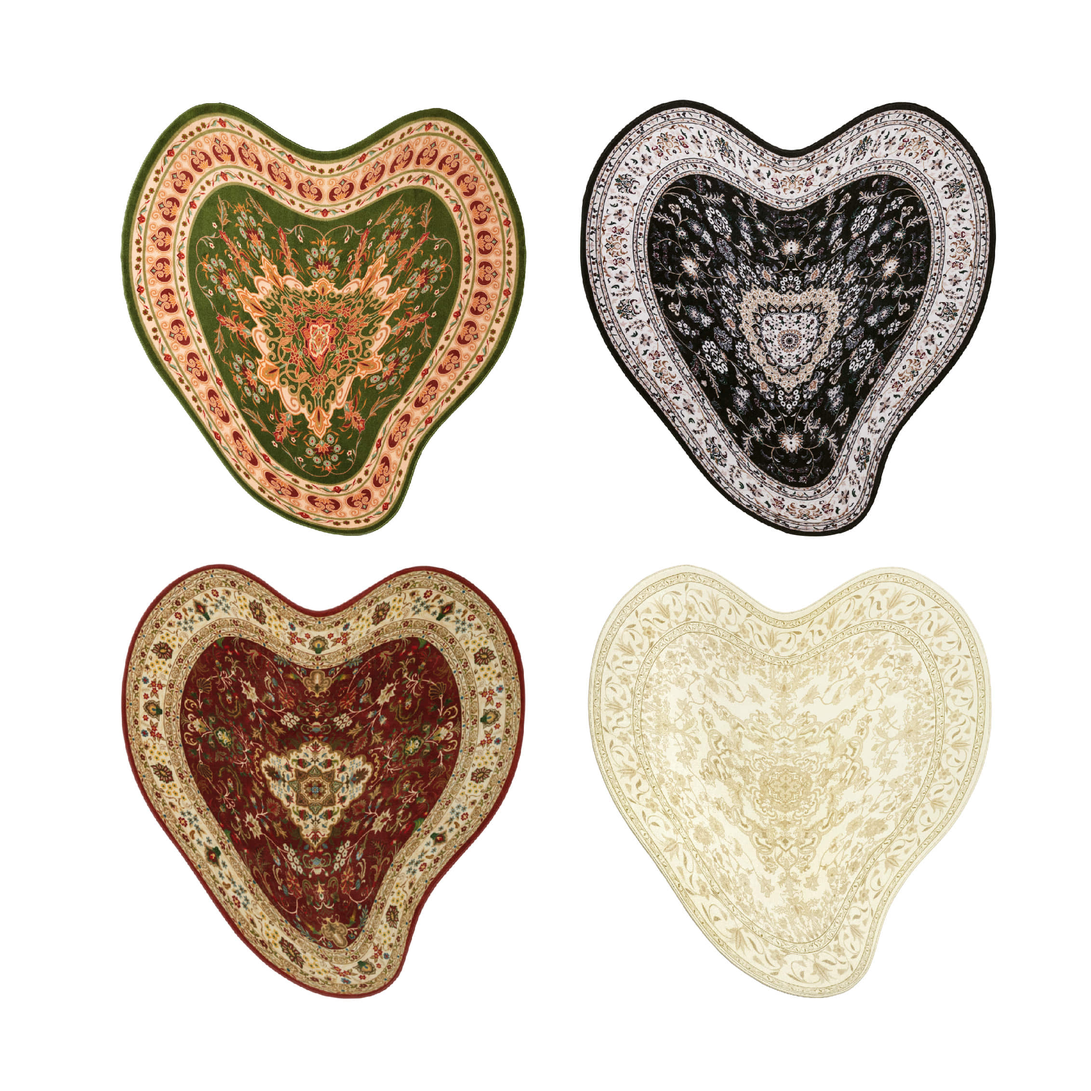
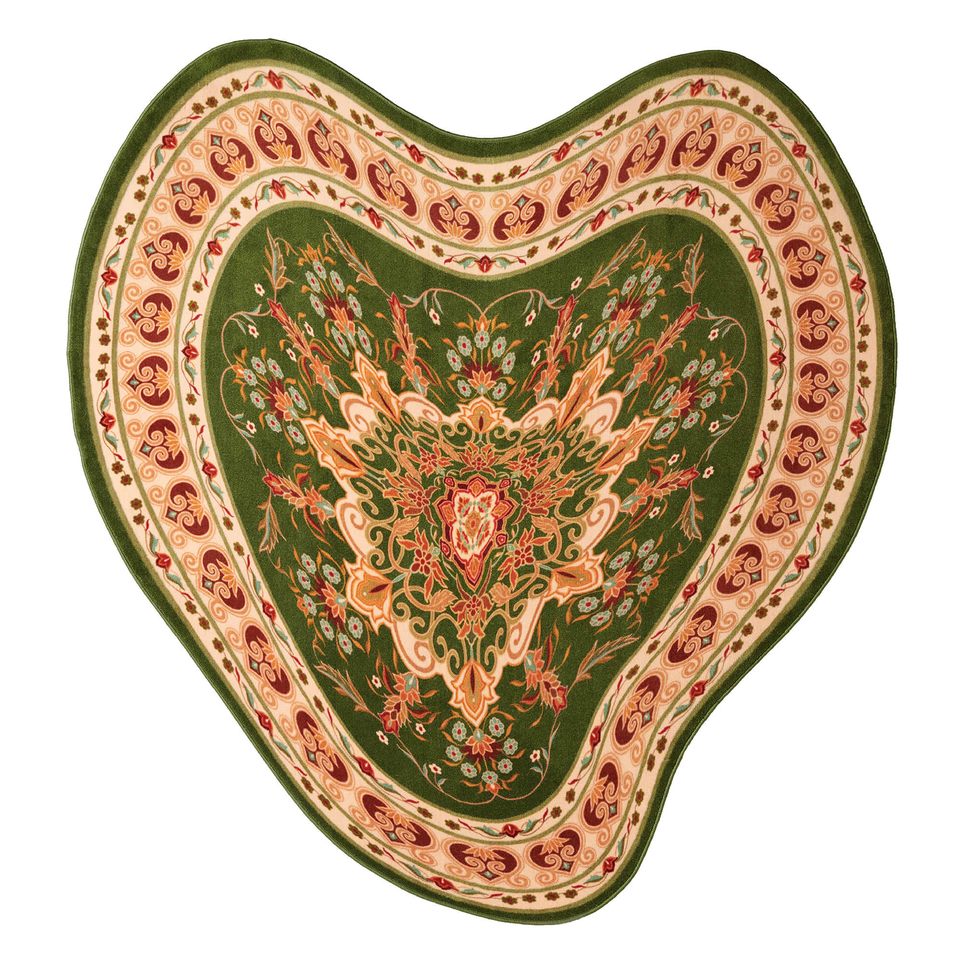
s

diff --git a/2차_팀프로젝트/03.구현소스(디자인&소스)/sub2.html b/2차_팀프로젝트/03.구현소스(디자인&소스)/sub2.html
@@ -1,0 +1,127 @@
+<!DOCTYPE html>
+<html lang="en">
+  <head>
+    <meta charset="UTF-8" />
+    <meta name="viewport" content="width=device-width, initial-scale=1.0" />
+    <title>Saytouche</title>
+    <!-- 파비콘 넣기 -->
+    <!-- <link rel="shortcut icon" href="./images/favicon.ico" /> -->
+    <!-- 폰트어썸 CDN CSS -->
+    <link
+      rel="stylesheet"
+      href="https://cdnjs.cloudflare.com/ajax/libs/font-awesome/6.2.0/css/all.min.css"
+    />
+    <!-- 메인 CSS -->
+    <link rel="stylesheet" href="./css/sub2.css" />
+
+    <!-- 미디어쿼리는 반드시 일반css아래 위치함! -->
+    <link rel="stylesheet" href="./css/media_main.css" />
+    <!-- Swiper CSS -->
+    <link
+      rel="stylesheet"
+      href="https://cdn.jsdelivr.net/npm/swiper@11/swiper-bundle.min.css"
+    />
+
+    <!-- Swiper JS -->
+    <script src="https://cdn.jsdelivr.net/npm/swiper@11/swiper-bundle.min.js"></script>
+
+    <!-- 제이쿼리 라이브러리 불러오기 
+     제이쿼리를 사용하는 JS파일 위에 불러와야한다! -->
+    <script src="./js/jquery-3.6.3.min.js"></script>
+
+    <!-- 외부JS 제이쿼리버전 - defer필수! -->
+    <script src="./js/main1_jquery.js" defer></script>
+
+    <!-- <script type="module" src="./js/common.js"></script> -->
+    <!-- 공통 JS :import 문법을 사용하려면
+     반드시 type="module"로 써야한다.-->
+    <script type="module" src="./js/common.js"></script>
+    <!-- 메인 JS -->
+    <script src="./js/sub.js" defer></script>
+  </head>
+  <body>
+    <header class="top">
+      <div id="top-area"></div>
+    </header>
+    <!-- //////////////////////////////////////////////// -->
+    <!--2. 메인영역 -->
+    <main id="main-area">
+      <div class="main-area">
+        <h2 class="temp-tit blind">메인영역</h2>
+
+        <!-- 2-1 배너 파트 -->
+        <section class="banner-part">
+          <h2 class="temp-tit blind">2-1. 배너영역</h2>
+          <!-- 배너 스와이퍼 -->
+          <div class="banner-swiper-container">
+            <div class="swiper bannerSwiper">
+              <div class="swiper-wrapper">
+                <!-- 슬라이드 1 -->
+                <div class="swiper-slide">
+                  <div class="banner-box">
+                    <img
+                      src="./images/rug1.jpg"
+                      alt="세이투세 러그 1"
+                      class="bg"
+                    />
+                  </div>
+                </div>
+                <!-- 슬라이드 2 -->
+                <div class="swiper-slide">
+                  <div class="banner-box">
+                    <img
+                      src="./images/rug2.jpg"
+                      alt="세이투세 러그 2"
+                      class="bg"
+                    />
+                  </div>
+                </div>
+                <!-- 슬라이드 3 -->
+                <div class="swiper-slide">
+                  <div class="banner-box">
+                    <img
+                      src="./images/rug3.jpg"
+                      alt="세이투세 러그 3"
+                      class="bg"
+                    />
+                  </div>
+                </div>
+                <!-- 슬라이드 4 -->
+                <div class="swiper-slide">
+                  <div class="banner-box">
+                    <img
+                      src="./images/rug4.jpg"
+                      alt="세이투세 러그 4"
+                      class="bg"
+                    />
+                  </div>
+                </div>
+                <!-- 슬라이드 5 -->
+                <div class="swiper-slide">
+                  <div class="banner-box">
+                    <img
+                      src="./images/rug5.jpg"
+                      alt="세이투세 러그 5"
+                      class="bg"
+                    />
+                  </div>
+                </div>
+              </div>
+
+              <!-- 이전/다음 버튼 -->
+              <!-- <div class="swiper-button-prev banner-prev"></div>
+            <div class="swiper-button-next banner-next"></div> -->
+
+              <!-- 페이지네이션 -->
+              <div class="swiper-pagination banner-pagination"></div>
+            </div>
+          </div>
+        </section>
+        <!-- 2-1 배너 파트 끝-->
+      </div>
+    </main>
+    <!-- //////////////////////////////////////////////// -->
+    <!-- 6. 하단영역 -->
+    <div id="bottom-area"></div>
+  </body>
+</html>

diff --git a/2차_팀프로젝트/03.구현소스(디자인&소스)/css/sub2.css b/2차_팀프로젝트/03.구현소스(디자인&소스)/css/sub2.css
@@ -1,0 +1,242 @@
+/* 외부 CSS 불러오기 */
+@import url(./reset.css);
+@import url(./core.css);
+@import url(./common.css);
+/* 12그리드 CSS */
+@import url(./grid_12_flex.css);
+
+/* 공사중 표시 */
+body * {
+  outline: 2px dashed #ccc;
+}
+
+/***************** 메인 CSS ********************/
+
+/* 상단영역 */
+.top {
+  position: fixed;
+  top: 0;
+  left: 0;
+  width: 100%;
+  height: 84px;
+  background: #005a2a;
+  /* background: #006633; */
+  /* background: #003f1f; */
+  transition: translate 0.3s ease; /* 부드럽게 숨김 효과 */
+  border-bottom: 2px solid #000000;
+  box-sizing: border-box;
+  z-index: 999;
+}
+
+.toppad {
+  width: 100%;
+  height: auto;
+  height: 84px;
+  /* margin-top: 8px; */
+  position: relative;
+  display: flex;
+  flex-wrap: wrap;
+  align-items: center;
+  justify-content: space-between;
+}
+.topleft,
+.topright {
+  flex: 1; /* ✅ 자동 크기 조정 */
+  min-width: 0;
+}
+
+.topright {
+  display: flex;
+
+  justify-content: flex-end;
+}
+.menu {
+  display: flex;
+  flex-wrap: wrap;
+
+  align-items: center;
+  list-style: none;
+  margin: 0;
+  padding: 0;
+}
+li {
+  margin: 0 10px;
+}
+a {
+  position: relative;
+  font-size: 1.9rem;
+  color: #f0ae1f;
+  text-decoration: none;
+  transition: color 0.3s ease;
+}
+
+.sub::before {
+  content: "";
+  position: absolute;
+  border-radius: 5px;
+  width: 5px;
+  height: 5px;
+  background: #f0ae1f;
+  left: 50%;
+  top: -5px;
+  translate: -50% 0;
+  opacity: 0;
+  transition: opacity 0.3s ease;
+}
+
+.sub:hover::before {
+  opacity: 1;
+}
+
+.kr,
+.en {
+  margin-left: 5px;
+}
+
+.kr a:hover,
+.en a:hover {
+  color: #b67c0b;
+}
+.kr a:after,
+.ent a:after {
+  content: "";
+  position: absolute;
+  left: 0;
+  bottom: -3px; /* 텍스트 바로 아래 */
+  width: 0;
+  height: 2px;
+  background-color: #f0ae1f;
+  transition: width 0.3s ease;
+}
+
+.topleft a:hover::after,
+.topright a:hover::after {
+  width: 100%; /* 선이 왼쪽→오른쪽으로 그려짐 */
+}
+
+/* 상단로고 */
+.main-logo {
+  position: fixed;
+  top: 18px;
+  left: 50%;
+  translate: -50% 0;
+  transition: height 0.3s ease;
+  /*margin-top: 18px;*/
+}
+
+.main-logo img {
+  height: 50px;
+}
+
+/* 메인영역 */
+
+/* 메인-배너 */
+.banner-box {
+  width: inherit;
+  box-sizing: border-box;
+  padding: 0 20px;
+  /* width: 1600px; */
+}
+
+img.bg {
+  width: inherit;
+  object-fit: cover;
+}
+/* 2-2 서브메뉴 */
+.menu-part {
+  width: 100%;
+}
+
+/* 배너 */
+.banner-part {
+  position: relative;
+  width: 100%;
+  overflow: hidden;
+}
+
+.banner-swiper-container {
+  position: relative;
+  width: 100%;
+}
+
+.bannerSwiper {
+  width: 100%;
+  height: 100%;
+}
+
+.bannerSwiper .swiper-slide {
+  display: flex;
+  justify-content: center;
+  align-items: center;
+}
+
+.banner-box {
+  width: 100%;
+  height: 100%;
+  position: relative;
+}
+
+.banner-box .bg {
+  width: 100%;
+  height: 100%;
+  object-fit: cover;
+  display: block;
+}
+.swiper-button-next,
+.swiper-button-prev {
+  color: #00592a !important
+;
+}
+
+/* 배너 슬라이드 버튼 커스터마이징 */
+.banner-prev,
+.banner-next {
+  width: 50px;
+  height: 50px;
+  background: none;
+  border-radius: 50%;
+  color: white;
+  transition: all 0.3s ease;
+}
+
+.banner-prev:after,
+.banner-next:after {
+  font-size: 20px;
+  font-weight: bold;
+}
+
+.banner-prev:hover,
+.banner-next:hover {
+  background: none;
+  transform: scale(1.1);
+}
+
+/* 버튼 위치 조정 */
+.banner-prev {
+  left: 20px;
+}
+
+.banner-next {
+  right: 20px;
+}
+
+/* 배너 페이지네이션 커스터마이징 */
+.banner-pagination {
+  bottom: 30px !important;
+  z-index: 10;
+}
+
+.banner-pagination .swiper-pagination-bullet {
+  width: 12px;
+  height: 12px;
+  background: rgba(255, 255, 255, 0.5);
+  opacity: 1;
+  margin: 0 6px;
+  transition: all 0.3s ease;
+}
+
+.banner-pagination .swiper-pagination-bullet-active {
+  background: rgb(0, 0, 0);
+  width: 30px;
+  border-radius: 6px;
+}
